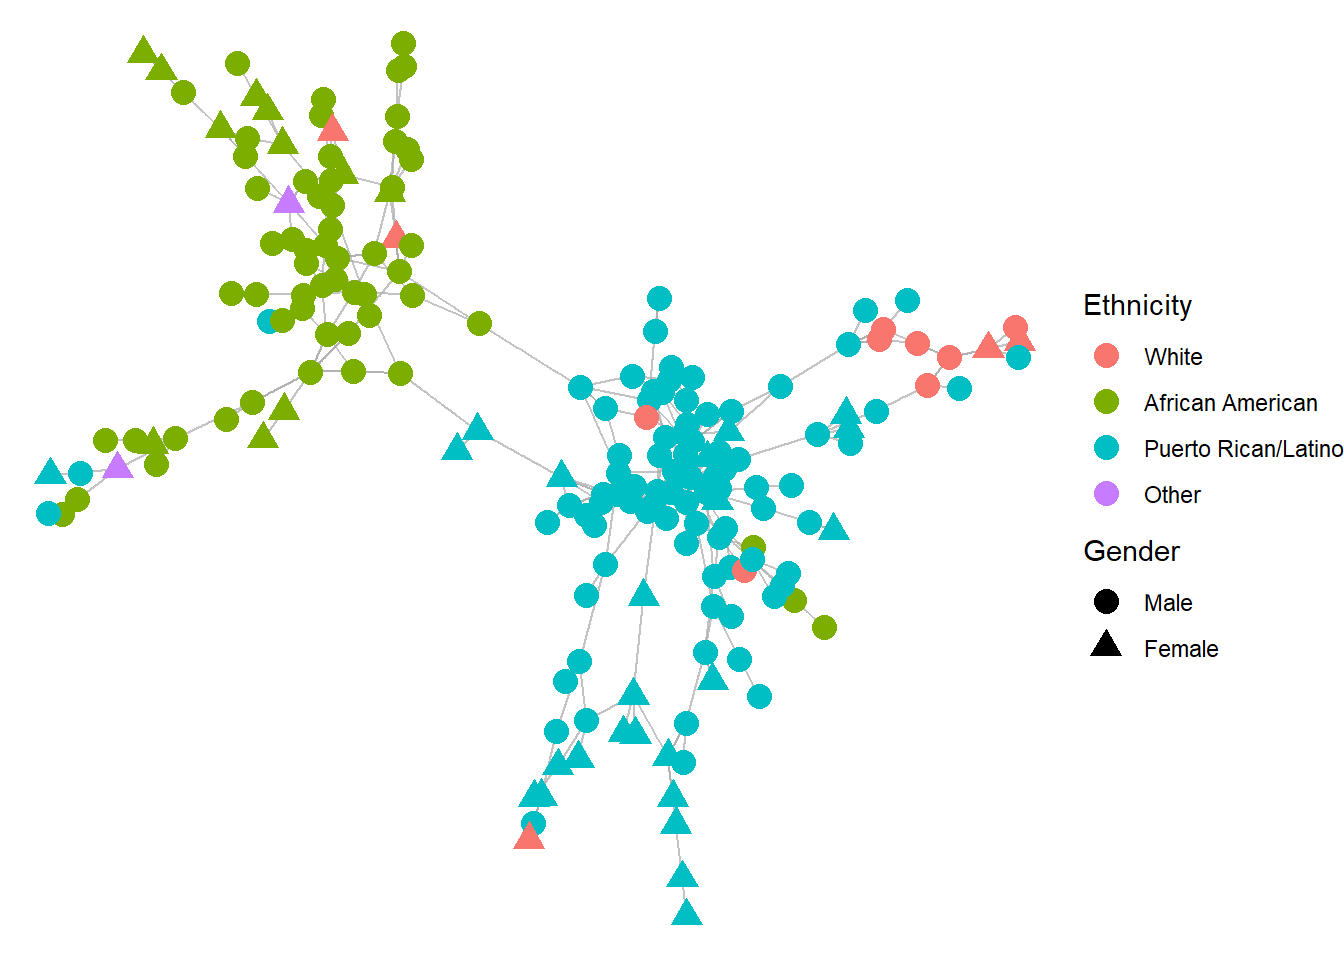
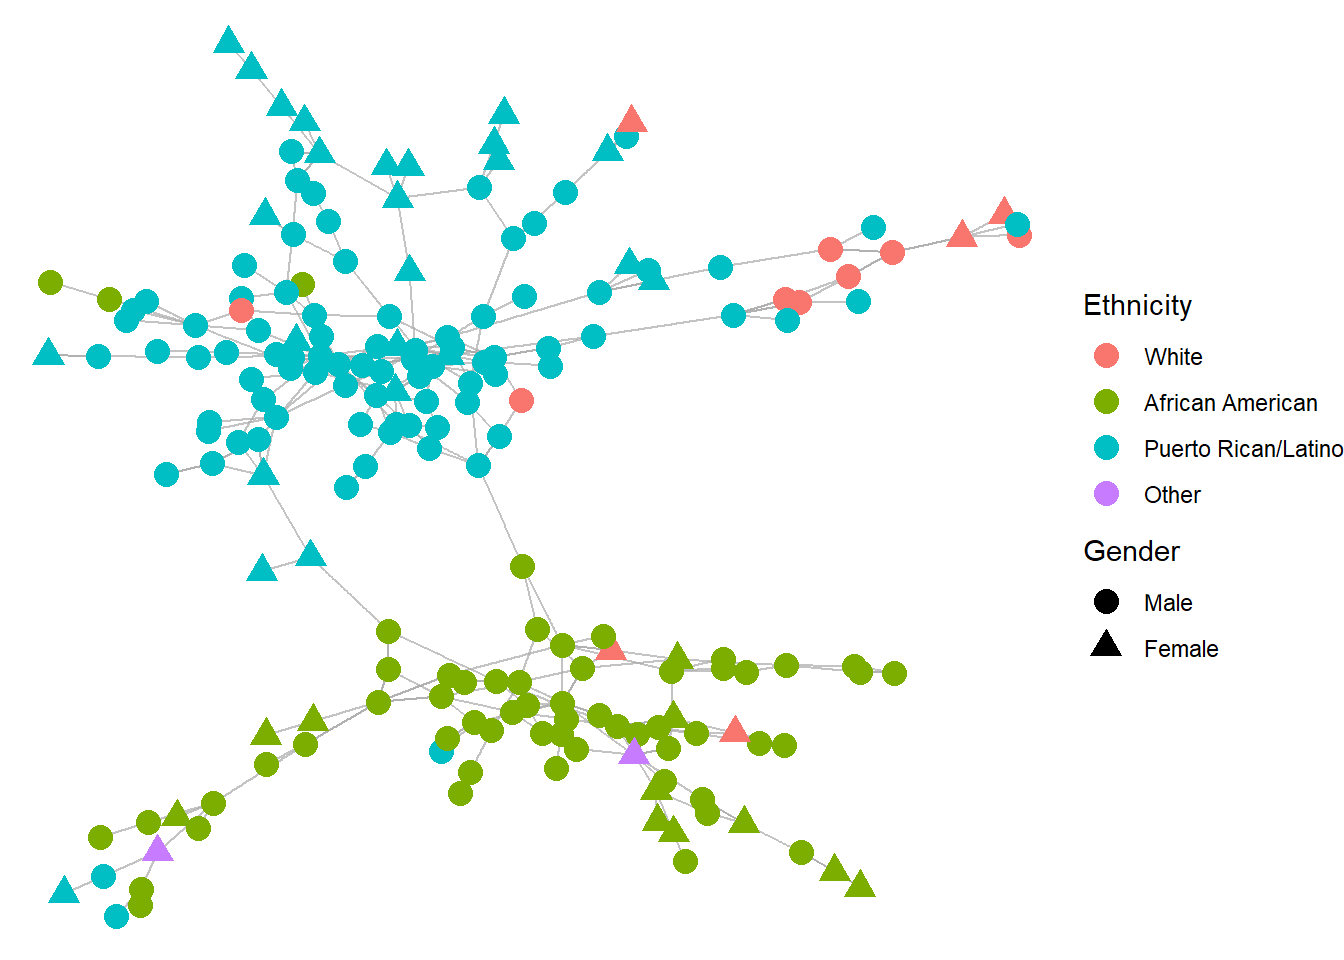
Update index

diff --git a/docs/index.html b/docs/index.html
@@ -279,7 +279,9 @@ ul.task-list li input[type="checkbox"] {
   <ul>
   <li><a href="#welcome" id="toc-welcome" class="nav-link active" data-scroll-target="#welcome">WELCOME!</a>
   <ul class="collapse">
-  <li><a href="#plan-for-the-book" id="toc-plan-for-the-book" class="nav-link" data-scroll-target="#plan-for-the-book">Plan for the Book</a></li>
+  <li><a href="#keeping-it-simple" id="toc-keeping-it-simple" class="nav-link" data-scroll-target="#keeping-it-simple">Keeping it Simple</a></li>
+  <li><a href="#web-applications-and-datasets" id="toc-web-applications-and-datasets" class="nav-link" data-scroll-target="#web-applications-and-datasets">Web Applications and Datasets</a></li>
+  <li><a href="#advanced-study" id="toc-advanced-study" class="nav-link" data-scroll-target="#advanced-study">Advanced Study</a></li>
   </ul></li>
   </ul>
 </nav>
@@ -321,18 +323,35 @@ ul.task-list li input[type="checkbox"] {
 
 <section id="welcome" class="level1 unnumbered">
 <h1 class="unnumbered">WELCOME!</h1><p><img src="lightcover.jpg" title="Introduction to Social Network Analysis" class="quarto-cover-image nolightbox img-fluid" alt="A textbook cover. "></p>
-<section id="plan-for-the-book" class="level2">
-<h2 class="anchored" data-anchor-id="plan-for-the-book">Plan for the Book</h2>
 <p>This book is designed as an introduction to social network analysis. This is an exciting method, but it can also be very complex statistically and very challenging in terms of software coding. For many years, we have been teaching social network analysis across multiple levels of college coursework – from first semester college freshmen to advanced PhD students. We think that social network analysis can be easy to understand and apply. It does not require advanced statistical knowledge nor an extensive background in coding. Our goal is to break down the ideas and the procedures into an easily digestible way so that people who are learning about SNA for the first time can quickly understand and gain many useful skills.</p>
+<section id="keeping-it-simple" class="level2">
+<h2 class="anchored" data-anchor-id="keeping-it-simple">Keeping it Simple</h2>
 <p>How do we accomplish this? By keeping things simple.</p>
 <ol type="1">
 <li><p>Rather than utilizing a dizzying array of different packages for conducting SNA, we instead rely almost entirely on igraph. That way, you can focus on working with one set of objects rather than having to move across multiple sets.</p></li>
 <li><p>We make heavy use of network visualizations in order to illustrate the key concepts and procedures. We use, almost exclusively, one set of plotting tools: ggraph. This package is preferred over others because the coding logic is based on the widely used ggplot suite of visualizations, so working in ggraph will be easy for folks who are already familiar with ggplot and will offer highly transferable skills for newcomers.</p></li>
 <li><p>We structure the book by first taking a deep dive into standard one mode, holistic networks. That way readers can keep this common form of network data in mind while working through the foundational concepts. Once this knowledge is established, we move on to extensions of the one mode framework, with demonstrations of working with and analyzing two-mode, ego-centric, text, and dynamic networks.</p></li>
 </ol>
+</section>
+<section id="web-applications-and-datasets" class="level2">
+<h2 class="anchored" data-anchor-id="web-applications-and-datasets">Web Applications and Datasets</h2>
 <p>Furthermore, we have created a series of web applications that can be used to practice the procedures presented in the book. No coding is required. Just point-and-click to recreate the visualizations and analyses. We have one app for each form of data and we have populated these apps with the example datasets presented in the book (as well as a few others that are not discussed).</p>
-<p>While our main goal is to make SNA accessible to new learners, this book also has much value for more advanced students. In fact, much of the content included here has been used as part of the curriculum for our PhD classes on SNA. So while this book emphasizes the logic of SNA, it also makes explicit reference to the statistics that underlie these procedures. We also point readers to advanced sources for further study.</p>
-<p>Moreover, advanced students will benefit from recreating the analyses directly in R and RStudio. Throughout the book, we present and carefully annotate our code so that you can see and understand how we manipulate the data, generate the visualizations, and conduct the analyses. Our code, along with the data, can be used to reproduce everything that is shown here. You can check out the “R and RStudio setup and resources” chapter in the appendix for details.</p>
+<p>Here are links to those applications…</p>
+<ul>
+<li><p><a href="https://shiny.chass.ncsu.edu/intronets/onemode/">One mode network app</a></p></li>
+<li><p><a href="https://shiny.chass.ncsu.edu/intronets/ego/">Ego network app</a></p></li>
+<li><p><a href="https://shiny.chass.ncsu.edu/intronets/twomode/">Two mode network app</a></p></li>
+<li><p><a href="https://shiny.chass.ncsu.edu/intronets/textmode/">Text network app</a></p></li>
+</ul>
+<p>…and in the appendix you can find more information about the datasets.</p>
+<ul>
+<li><a href="https://stevemcd1.github.io/introSNA/datasets.html">Network data descriptions</a></li>
+</ul>
+</section>
+<section id="advanced-study" class="level2">
+<h2 class="anchored" data-anchor-id="advanced-study">Advanced Study</h2>
+<p>While our main goal is to make SNA accessible to new learners, this book also has much value for more advanced students. In fact, much of the content included here has been used as part of the curriculum for our PhD classes on SNA. So while this book emphasizes the logic of SNA, it also comments on the statistics that underlie these procedures. We also point readers to advanced sources for further study.</p>
+<p>Moreover, advanced students will benefit from recreating the analyses directly in R and RStudio. Throughout the book, we present and carefully annotate our code so that you can see and understand how we manipulate the data, generate the visualizations, and conduct the analyses. Our code, along with the data, can be used to reproduce everything that is shown here. You can check out the <a href="https://stevemcd1.github.io/introSNA/r_basics.html">R and RStudio chapter</a> in the appendix for details.</p>
 
 
 </section>

diff --git a/docs/assortitivity.html b/docs/assortitivity.html
@@ -135,8 +135,8 @@ pre > code.sourceCode > span > a:first-child::before { text-decoration: underlin
   <nav id="quarto-sidebar" class="sidebar collapse collapse-horizontal quarto-sidebar-collapse-item sidebar-navigation floating overflow-auto">
     <div class="pt-lg-2 mt-2 text-left sidebar-header sidebar-header-stacked">
       <a href="./index.html" class="sidebar-logo-link">
-      <img src="./darkcover2.png" alt="" class="sidebar-logo light-content py-0 d-lg-inline d-none">
-      <img src="./darkcover2.png" alt="" class="sidebar-logo dark-content py-0 d-lg-inline d-none">
+      <img src="./lightcover.jpg" alt="" class="sidebar-logo light-content py-0 d-lg-inline d-none">
+      <img src="./lightcover.jpg" alt="" class="sidebar-logo dark-content py-0 d-lg-inline d-none">
       </a>
     <div class="sidebar-title mb-0 py-0">
       <a href="./">Intro to Social Network Analysis</a> 
@@ -295,14 +295,8 @@ pre > code.sourceCode > span > a:first-child::before { text-decoration: underlin
 </li>
           <li class="sidebar-item">
   <div class="sidebar-item-container"> 
-  <a href="./data_collect.html" class="sidebar-item-text sidebar-link">
- <span class="menu-text"><span class="chapter-number">B</span>&nbsp; <span class="chapter-title">Collecting Network Data</span></span></a>
-  </div>
-</li>
-          <li class="sidebar-item">
-  <div class="sidebar-item-container"> 
   <a href="./interact_vis.html" class="sidebar-item-text sidebar-link">
- <span class="menu-text"><span class="chapter-number">C</span>&nbsp; <span class="chapter-title">Interactive Network Visualization</span></span></a>
+ <span class="menu-text"><span class="chapter-number">B</span>&nbsp; <span class="chapter-title">Interactive Network Visualization</span></span></a>
   </div>
 </li>
       </ul>
